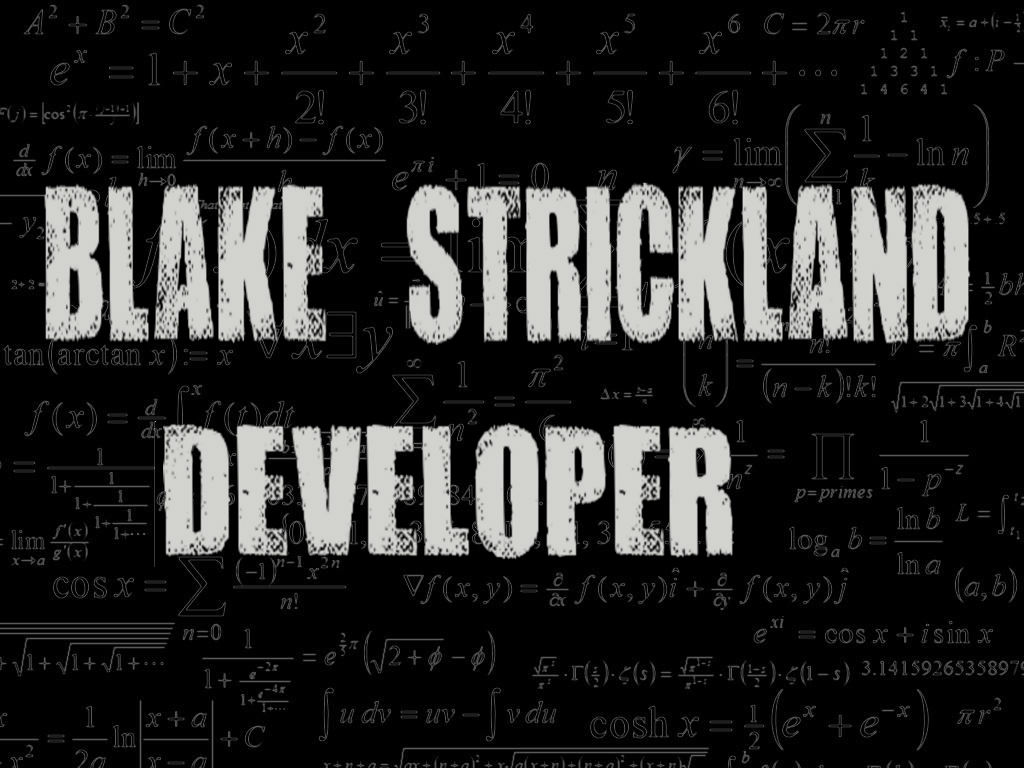
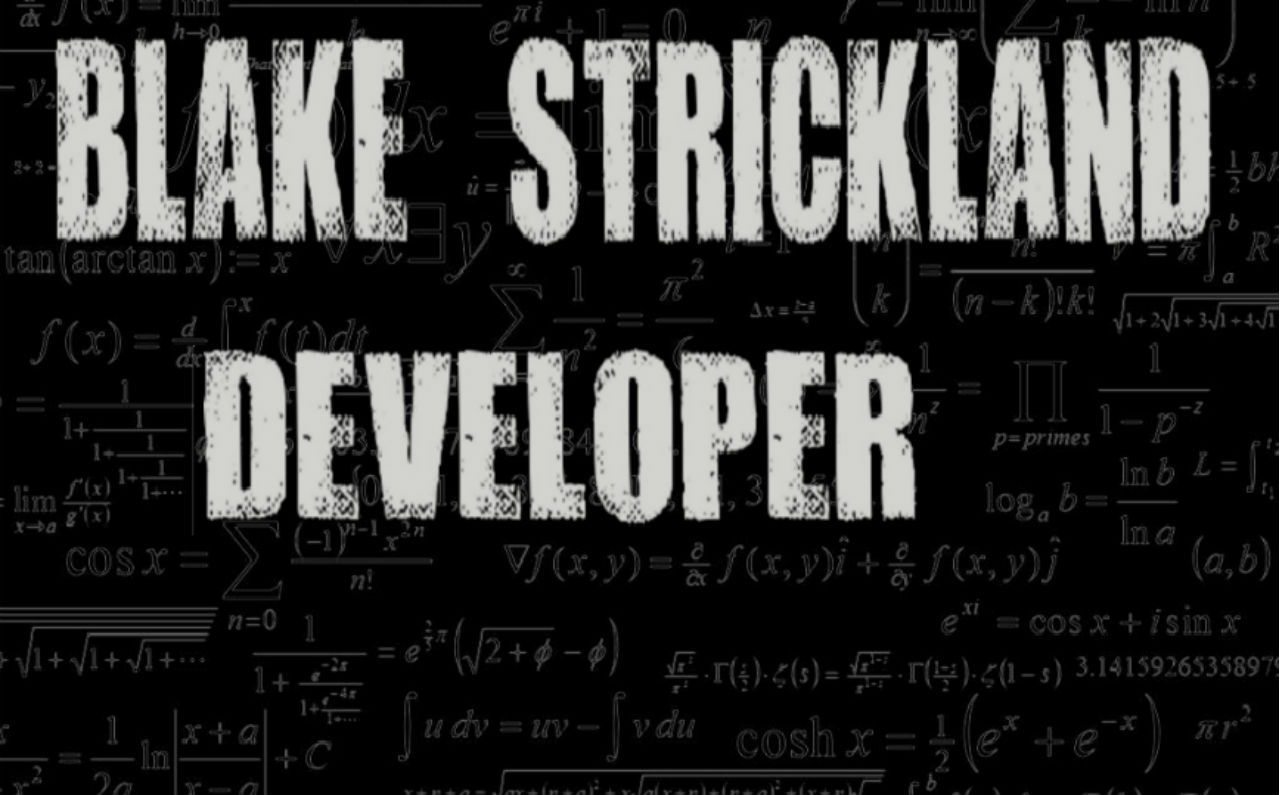
add vinyl

diff --git a/app/assets/stylesheets/my_infos.css.scss b/app/assets/stylesheets/my_infos.css.scss
@@ -5,7 +5,7 @@ body {
   font-family: sans-serif;
 }
 
-$parallax-window-height: 50em;
+$parallax-window-height: 30em;
 $parallax-background-height: $parallax-window-height;
 
 .parallax-window {
@@ -26,7 +26,7 @@ $parallax-background-height: $parallax-window-height;
 }
 
 .parallax-background {
-  background: url("chalk-background.jpeg") repeat;
+  background: url("revamp-chalk.jpeg") repeat;
   background-size: cover;
   background-color: beige;
   background-position: top;
